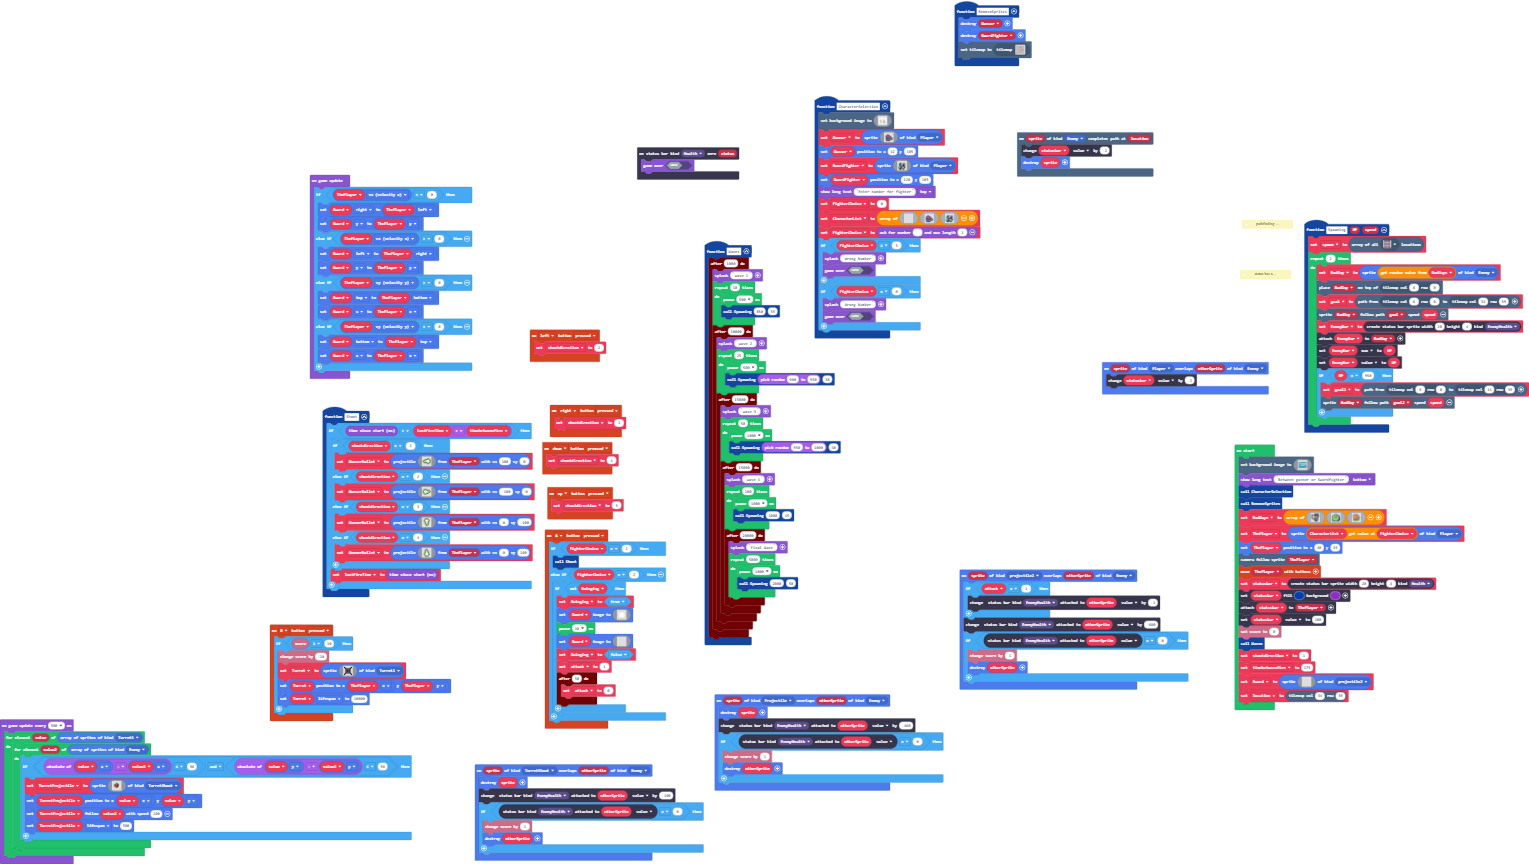
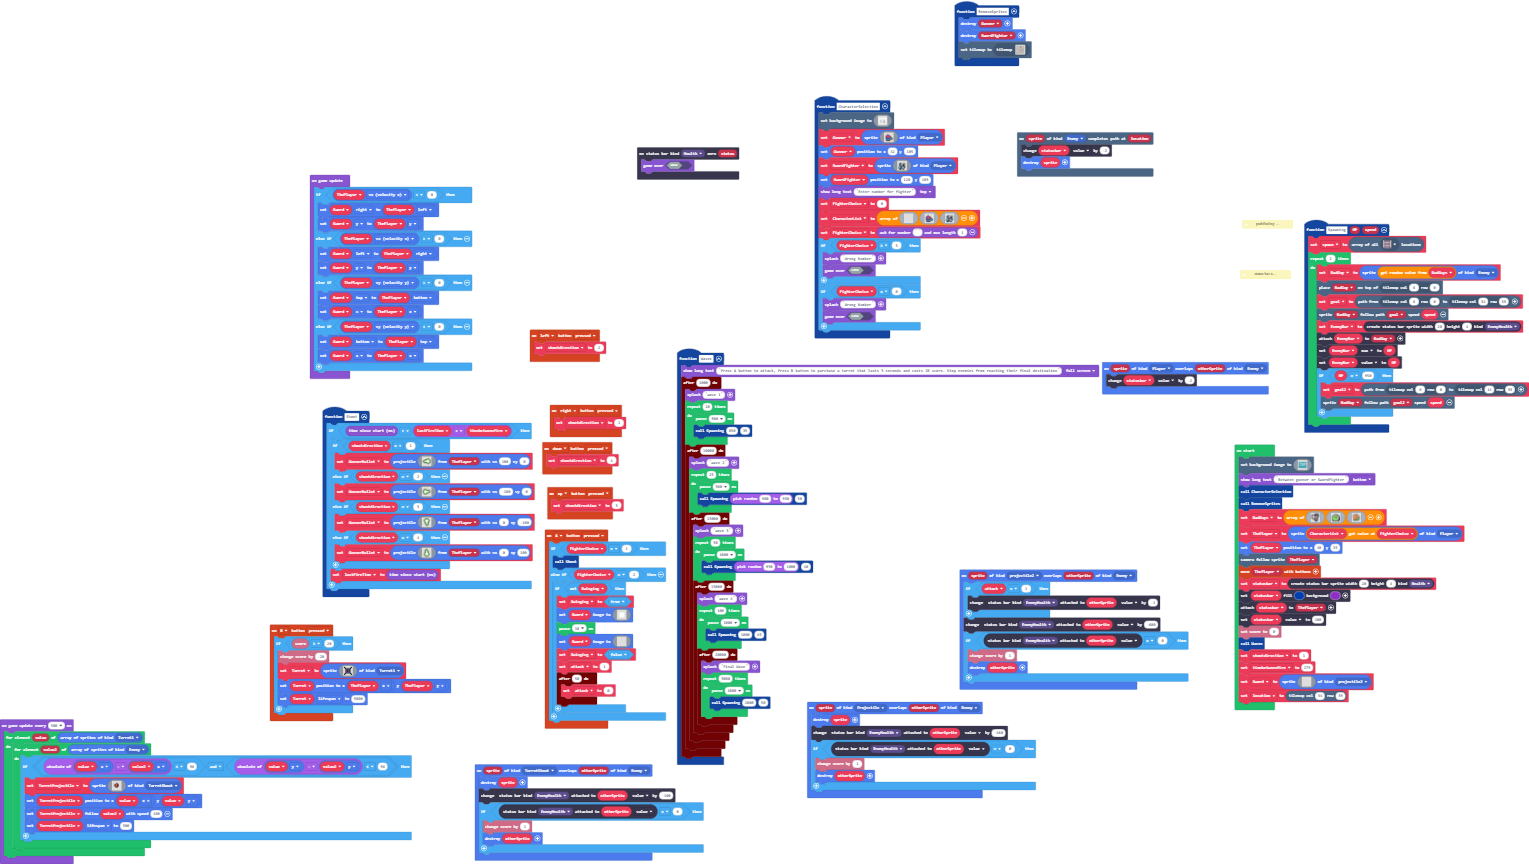
small turret changes

Changed region(s): [[0.4303, 0.2812, 0.7377, 0.9375]]

diff --git a/main.ts b/main.ts
@@ -24,8 +24,8 @@ scene.onPathCompletion(SpriteKind.Enemy, function (sprite, location) {
     sprites.destroy(sprite)
 })
 controller.B.onEvent(ControllerButtonEvent.Pressed, function () {
-    if (info.score() >= 10) {
-        info.changeScoreBy(-10)
+    if (info.score() >= 20) {
+        info.changeScoreBy(-20)
         Turret = sprites.create(img`
             f f . . . . . . . . . . . . f f 
             f 8 f . . . . . . . . . . f 8 f 
@@ -45,7 +45,7 @@ controller.B.onEvent(ControllerButtonEvent.Pressed, function () {
             f f . . . . . . . . . . . . f f 
             `, SpriteKind.Turret1)
         Turret.setPosition(ThePlayer.x, ThePlayer.y)
-        Turret.lifespan = 10000
+        Turret.lifespan = 5000
     }
 })
 controller.A.onEvent(ControllerButtonEvent.Pressed, function () {
@@ -458,6 +458,7 @@ function Spawning (HP: number, speed: number) {
     }
 }
 function Waves () {
+    game.showLongText("Press A button to attack, Press B button to purchase a turret that lasts 5 seconds and costs 20 score. Stop enemies from reaching their final destination", DialogLayout.Full)
     timer.after(1000, function () {
         game.splash("wave 1")
         for (let index = 0; index < 10; index++) {
